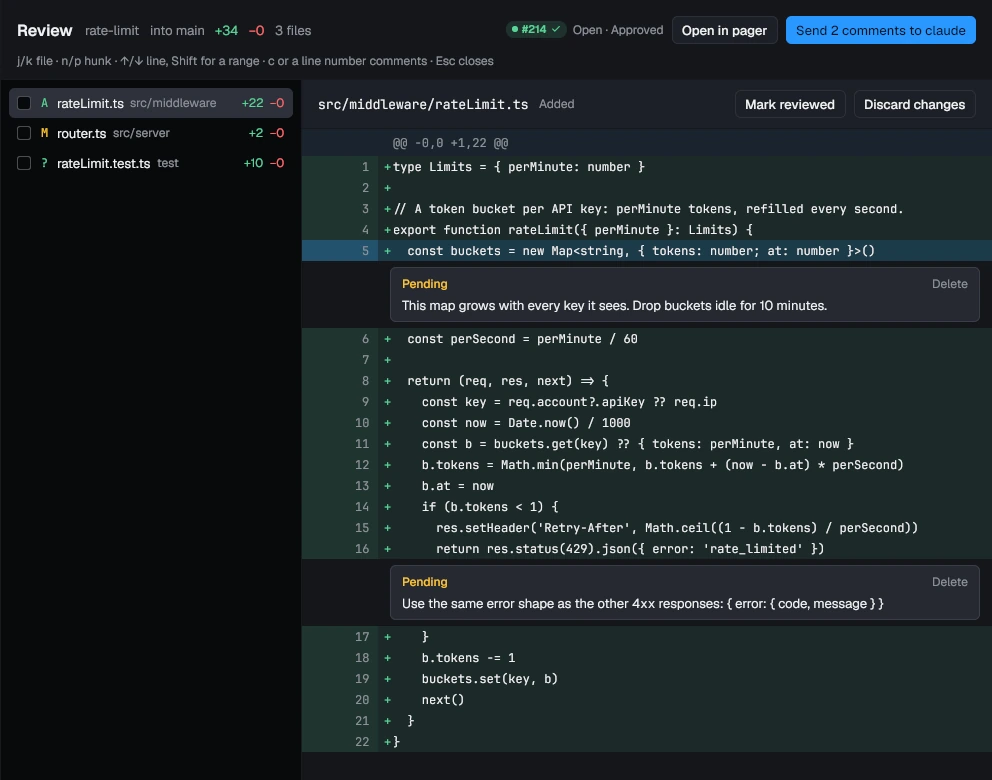
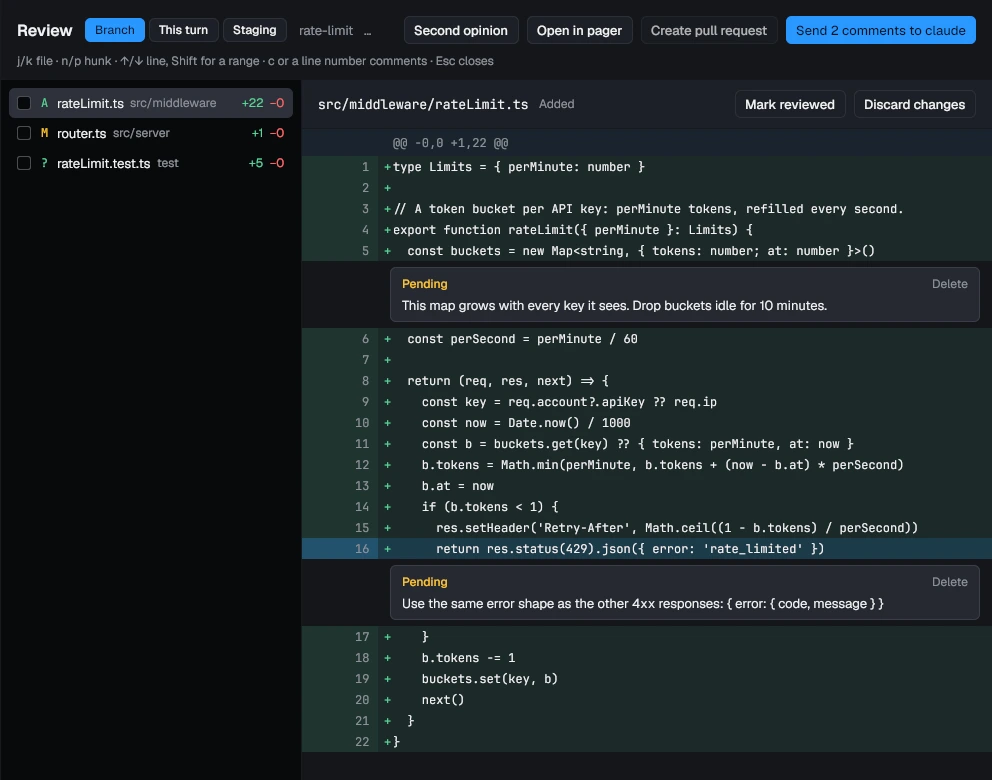
Correct page claims from review and retake the review image

diff --git a/docs/index.html b/docs/index.html
@@ -184,7 +184,7 @@ footer a { color: var(--muted); }
 
   <div class="hero">
     <h1>A desktop terminal for running several coding agents at once.</h1>
-    <p class="lede">Run five agents in five tabs and one of them is always stuck waiting on you, on a permission prompt or a question you have not seen. pitwall lights up that tab, notifies you, and takes you there with one key.</p>
+    <p class="lede">Run five agents in five tabs and sooner or later one stops to wait on you, on a permission prompt or a question you have not seen. pitwall lights up that tab, notifies you, and takes you there with one key.</p>
     <ul class="facts">
       <li><strong>Free and MIT licensed.</strong> No account.</li>
       <li><strong>Linux, macOS and Windows</strong>, x86_64 and arm64.</li>
@@ -193,7 +193,7 @@ footer a { color: var(--muted); }
     </ul>
     <div class="actions">
       <a class="button primary" href="#install">Install</a>
-      <a class="button" href="#try">Try it in five minutes</a>
+      <a class="button" href="#try">Try it</a>
       <a class="button" href="https://github.com/quanticstudios/pitwall">View on GitHub</a>
     </div>
   </div>
@@ -207,7 +207,7 @@ footer a { color: var(--muted); }
   <section id="install" class="install">
     <div class="wrap">
       <h2>Install</h2>
-      <p>pitwall runs every day on Linux; the macOS and Windows builds are newer and have had little use. When a release is out, an Update button installs it, and your tabs and config carry over.</p>
+      <p>pitwall runs every day on Linux; the macOS and Windows builds are newer and have had little use. When a release is out, an Update button installs it on a script install, and your tabs and config carry over; with Homebrew or Scoop, use <code>brew upgrade</code> or <code>scoop update pitwall</code>.</p>
       <div class="install-grid">
         <div>
           <p class="label">Homebrew, on macOS or Linux</p>
@@ -223,19 +223,19 @@ scoop install pitwall</code></pre>
           <pre><code>irm https://raw.githubusercontent.com/quanticstudios/pitwall/main/scripts/get.ps1 | iex</code></pre>
         </div>
       </div>
-      <p>Then run <code>pitwall</code>. The first window lists the agents on your <code>PATH</code> and sets up their status reporting with one button. <code>pitwall doctor</code> checks the install and prints the command that fixes each failure. <a href="https://github.com/quanticstudios/pitwall/blob/main/docs/install.md">The install page</a> covers platforms, pinning a version, updates and building from source.</p>
+      <p>Then run <code>pitwall</code>. <code>get.sh</code> installs it in <code>~/.local/bin</code>, so if your shell can't find it, add that folder to your <code>PATH</code> or run <code>~/.local/bin/pitwall</code>. The first window lists the agents on your <code>PATH</code> and sets up their status reporting with one button. <code>pitwall doctor</code> checks the install and says what to fix. <a href="https://github.com/quanticstudios/pitwall/blob/main/docs/install.md">The install page</a> covers platforms, pinning a version, updates and building from source.</p>
     </div>
   </section>
 
   <section id="try">
     <div class="wrap">
-      <h2>Try it in five minutes</h2>
+      <h2>Try it</h2>
       <p>Use a git repo you don't mind agents changing. On macOS the keys below are <kbd>Cmd+U</kbd>, <kbd>Cmd+Shift+Y</kbd>, <kbd>Cmd+Shift+N</kbd>, <kbd>Cmd+Shift+R</kbd> and <kbd>Cmd+T</kbd>.</p>
       <ol class="steps">
         <li><strong>Start two or three agents.</strong> Run <code>pitwall</code> in the repo and press Install hooks on the welcome card (or in Settings, Agents), so the agents report their state. <kbd>Ctrl+Shift+T</kbd> opens a tab; run <code>claude</code> in one, <code>codex</code> in another, and give each a task that runs a command. In Codex, run <code>/hooks</code> once to trust the new hooks.</li>
         <li><strong>Watch the sidebar.</strong> Each tab's row reads Working, Input, Approval, Plan, Done or Error, with the branch and the lines changed.</li>
         <li><strong>Press <kbd>Ctrl+Shift+U</kbd>.</strong> When an agent stops to ask, its row lights up and a desktop notification arrives. The key takes you to the agent that started waiting most recently; press it again for the next one.</li>
-        <li><strong>Answer from the row.</strong> A Claude Code or Codex permission prompt puts Allow and Deny on the row. Click them, or press <kbd>Ctrl+Shift+Y</kbd> or <kbd>Ctrl+Shift+D</kbd>. A single-choice Claude Code question puts its options there. To answer from a phone, turn it on in Settings, Phone, press Pair and scan the QR code; the phone has to reach your computer, for example over Tailscale (<a href="https://github.com/quanticstudios/pitwall/blob/main/docs/phone.md">the phone page</a>).</li>
+        <li><strong>Answer from the row.</strong> A Claude Code or Codex permission prompt puts Allow and Deny on the row. Click them, or press <kbd>Ctrl+Shift+Y</kbd> or <kbd>Ctrl+Shift+D</kbd>. A Claude Code question pitwall recognizes in full puts its options there; otherwise the row offers Open tab or Reply. To answer from a phone, turn it on in Settings, Phone and give it an address the phone can reach, as <a href="https://github.com/quanticstudios/pitwall/blob/main/docs/phone.md">the phone page</a> shows with Tailscale, since by default only your computer can reach it. Then press Pair and scan the QR code.</li>
         <li><strong>Ask for a fleet.</strong> Tell Claude Code or Codex "split this across three workers". Each worker gets its own worktree and tab, and a small row under the orchestrator's. Click the count on that row to fold them away.</li>
         <li><strong>Review and comment.</strong> <kbd>Ctrl+Shift+R</kbd> opens the tab's changes. Click a line number, type a comment and press Enter. The Send comments button types them all into the agent as one prompt.</li>
       </ol>
@@ -267,9 +267,9 @@ scoop install pitwall</code></pre>
       <div class="feature">
         <div class="text">
           <h3>Answer without switching windows</h3>
-          <p><strong>Answer a prompt from its row, without opening the tab.</strong> A Claude Code or Codex permission prompt shows Allow and Deny, plus Always when the prompt offers to stop asking. A single-choice Claude Code question shows its options as buttons. A Claude Code plan shows Approve plan, which never raises the permission mode, and a button to request changes. A question with no menu gets Reply, a small editor under the row. A multi-select or several questions at once show Open tab.</p>
-          <p>pitwall reads the screen again right before a press, and if the form changed, it presses nothing. <kbd>Ctrl+Shift+Y</kbd> and <kbd>Ctrl+Shift+D</kbd> press Allow and Deny, and on Linux the notification has them too.</p>
-          <p><strong>Or answer from your phone.</strong> Pair it by QR code and it lists what needs you, with Allow and Deny and a box for typed answers, and gets push notifications while locked. A menu on an agent's screen takes no typed reply, so answer that one in its tab or from the sidebar. There is no account and no relay: the phone talks to your computer over your own network. Push notifications go through the phone browser's push service, encrypted.</p>
+          <p><strong>Answer a prompt from its row, without opening the tab.</strong> A Claude Code or Codex permission prompt shows Allow and Deny, plus Always when the prompt has one clear option to stop asking. When pitwall recognizes a whole Claude Code form on screen, a single-choice question shows its options as buttons, and a plan that offers manual approval shows Approve plan, which never raises the permission mode. Otherwise the row offers Open tab, or Reply for a question with no menu.</p>
+          <p>An option, Always or Approve plan presses only if the screen still offers it. Allow and Deny check that the row is current and a permission prompt is on screen, not that the command is unchanged, so read it first. <kbd>Ctrl+Shift+Y</kbd> and <kbd>Ctrl+Shift+D</kbd> press them, and on Linux the notification has them too.</p>
+          <p><strong>Or answer from your phone.</strong> Pair it by QR code and it lists what needs you, with Allow and Deny and a box for typed answers. A menu on an agent's screen takes no typed reply, so answer that one in its tab or from the sidebar. There is no account and no relay: the phone talks to your computer over your own network. <a href="https://github.com/quanticstudios/pitwall/blob/main/docs/phone.md#notifications">Push notifications</a> need separate setup: a certificate the phone trusts, Turn on on the page, and on an iPhone the Home Screen. They go through the browser's push service, encrypted.</p>
         </div>
         <div class="media stack">
           <div class="shot tall"><img src="media/row-answers.webp" width="288" height="354" loading="lazy" alt="Sidebar rows answering in place: a Codex pane's approval with Always, Allow and Deny, and under an orchestrator's row four workers, one with Allow and Deny and one asking which database to use with Redis and SQLite buttons"></div>
@@ -320,7 +320,7 @@ pitwall wait --children \
           <p>The This turn scope shows what changed since the agent's latest turn started, and Undo turn puts those files back. The Staging scope stages single hunks with s and u, so you can commit part of an agent's work; on a <code>pitwall --host</code> tab, Stage hunks in terminal runs <code>git add -p</code> on the host. Second opinion starts the other agent read only in a split to review the changes, and sends its findings to the tab's agent.</p>
         </div>
         <div class="media">
-          <div class="shot"><img src="media/review.webp" width="992" height="780" loading="lazy" alt="The review view: three changed files on the left, the diff of rateLimit.ts on the right with two pending comments, and a Send 2 comments to claude button"></div>
+          <div class="shot"><img src="media/review.webp" width="992" height="780" loading="lazy" alt="The review view: Branch, This turn and Staging scopes, three changed files on the left, the diff of rateLimit.ts on the right with two pending comments, and Second opinion and Send 2 comments to claude buttons"></div>
         </div>
       </div>
 
@@ -328,7 +328,7 @@ pitwall wait --children \
         <div class="text">
           <h3>Run agents side by side without collisions</h3>
           <p><strong>Give each agent its own git worktree, and pitwall warns you when their changes collide.</strong> Start one from any branch or a pull request number.</p>
-          <p>Each gets its own ports (3010-3019, then 3020-3029), so two dev servers stop fighting over 3000, and can copy <code>.env</code> and run your setup command. Once one of two branches has an open pull request, a row gets an amber triangle when they touch the same files and a red one when merging would conflict. The hover card lists every overlap and says which to merge first.</p>
+          <p>Each gets its own port block (3010-3019, then 3020-3029) in <code>PORT</code> and two more variables, and a dev server that uses them stops fighting over 3000. Vite and Astro need <a href="https://github.com/quanticstudios/pitwall/blob/main/docs/usage.md#worktree-ports-and-setup">a config line or a flag</a>. A worktree can also copy <code>.env</code> and run your setup command. Once one of two branches has an open pull request, a row gets an amber triangle when they touch the same files and a red one when merging would conflict. The hover card lists every overlap and says which to merge first.</p>
           <p><strong>Fork a conversation to try a second approach.</strong> Fork in a tab's menu, or <code>pitwall fork --worktree side</code>, continues a Claude Code or Codex conversation in a new tab while the source keeps running. With <code>--worktree</code> the fork gets a new branch from the source's HEAD, with its own ports and setup. Uncommitted changes stay in the source checkout.</p>
           <p><strong>Clean up what a worktree started.</strong> Set <code>teardown</code>, such as <code>docker compose down</code>, under <code>[worktrees]</code>, and it runs with the worktree's ports before pitwall removes the folder. A failure keeps the worktree and says why. A command from a repo's <code>.pitwall/worktree.toml</code> needs your yes each time, since anyone can put code in a repo you clone. Without a yes, pitwall skips it, shows what it would have run and removes the worktree.</p>
         </div>
@@ -388,7 +388,7 @@ pitwall wait --children \
           <p><strong>An agent can open a tab with <code>pitwall new</code>, start Codex or Claude Code in it on a prompt, and wait for the result with <code>pitwall wait</code>.</strong> The tab shows up in your sidebar, so you can watch the work and type into it.</p>
           <p>Agents can also talk to each other. <code>pitwall send</code> types a message into another agent at its next prompt, with a header saying who sent it and how to reply, so Claude Code and Codex can argue over a plan until they agree.</p>
           <p><strong>Nothing pitwall types lands in your draft.</strong> <code>pitwall send</code>, review comments, sent CI failures and Reply wait while Claude Code's or Codex's input box holds your text or you typed in the pane in the last 3 seconds. The row reads "Waits: your draft". Send or clear the draft and they go in by themselves.</p>
-          <p>When the new agent asks permission, <code>wait</code> stops and reports the question, and you answer it in the tab or from its row. pitwall never answers for an agent. Hand <a href="https://github.com/quanticstudios/pitwall/blob/main/docs/agent-skill.md">the agent skill page</a> to your agent and it knows the commands.</p>
+          <p>When the new agent asks permission, <code>wait</code> stops and reports the question, and you answer it in the tab or from its row. pitwall never approves a terminal agent's permission prompt by itself. Hand <a href="https://github.com/quanticstudios/pitwall/blob/main/docs/agent-skill.md">the agent skill page</a> to your agent and it knows the commands.</p>
         </div>
         <div class="media stack">
           <div class="shot"><img src="media/agents-talk.webp" width="1280" height="800" loading="lazy" alt="Claude Code and Codex in split panes of one pinned tab. Claude Code wrote plan.md and asked Codex to critique it with pitwall send; Codex's reply arrives under a pitwall header naming the sender and how to reply, raising three points. Claude Code accepts two, revises the plan, and Codex answers AGREE."></div>
@@ -412,7 +412,7 @@ pitwall send "$pane" -- "Critique plan.md"</code></pre>
           <h3>Never lose a session</h3>
           <p><strong>Close the window, reboot or upgrade, and your tabs come back in their folders with the agents resumed where they left off.</strong></p>
           <p>Sessions work like tmux, and the switcher (<kbd>Ctrl+Shift+S</kbd>) shows every session's agents before you switch. <code>pitwall --host box</code> runs them on another machine over ssh, so they keep going when the laptop closes. With <code>window = true</code> under <code>[[hosts]]</code>, one window shows this machine's sessions and that host's under their own headings, with a Waiting on you list of the agents blocked on any of them.</p>
-          <p>Panes keep their most recent 2000 rows across restarts, except in guarded tabs. <strong>Keep awake,</strong> off by default, in Settings, Agents, stops Linux sleep and macOS idle sleep while any agent is Working and for a grace period after, 15 minutes unless you change it. A closed lid may still suspend the machine, and on Windows it does nothing.</p>
+          <p>Panes keep their most recent 2000 rows across restarts, except in guarded tabs. <strong>Keep awake,</strong> off by default, in Settings, Agents, holds a logind sleep block on Linux and prevents idle sleep on macOS while any agent is Working and for a grace period after, 15 minutes unless you change it. The screen can still sleep, a closed lid or a suspend that ignores the block can still suspend Linux, and a Mac still sleeps when you tell it to. Windows does nothing.</p>
         </div>
         <div class="media">
           <div class="shot"><img src="media/sessions.webp" width="738" height="560" loading="lazy" alt="The session switcher: sessions acme, billing and docs with their working and needs-you counts, and the billing session's tabs on the right"></div>

diff --git a/README.md b/README.md
@@ -4,9 +4,9 @@
 pitwall is a desktop terminal for running several coding agents at once,
 with a sidebar that shows what each one is doing right now.
 
-Run five agents in five tabs and one of them is always stuck waiting on
-you, on a permission prompt or a question you have not seen. pitwall lights
-up that tab, notifies you, and takes you there with one key.
+Run five agents in five tabs and sooner or later one stops to wait on you, on
+a permission prompt or a question you have not seen. pitwall lights up that
+tab, notifies you, and takes you there with one key.
 
 - Free and open source, under the MIT license. No account.
 - A desktop app for Linux, macOS and Windows, on x86_64 and arm64.
@@ -29,15 +29,17 @@ scoop install pitwall                     # Windows, with Scoop
 irm https://raw.githubusercontent.com/quanticstudios/pitwall/main/scripts/get.ps1 | iex   # or the script
 ```
 
-Then run `pitwall`. The first window lists the agents on your `PATH` and
-sets up their status reporting with one button. `pitwall doctor` checks the
-install and prints the command that fixes each failure. pitwall runs every
-day on Linux; the macOS and Windows builds are newer and have had little use.
-When a release is out, an Update button installs it, and your tabs and config
-carry over. [docs/install.md](docs/install.md) covers platforms, pinning a
-version, updates and building from source.
+Then run `pitwall`. `get.sh` installs it in `~/.local/bin`, so if your shell
+can't find it, add that folder to your `PATH` or run `~/.local/bin/pitwall`. The
+first window lists the agents on your `PATH` and sets up their status reporting
+with one button. `pitwall doctor` checks the install and says what to fix.
+pitwall runs every day on Linux; the macOS and Windows builds are newer and have
+had little use. When a release is out, an Update button installs it on a script
+install, and your tabs and config carry over; with Homebrew or Scoop, use
+`brew upgrade` or `scoop update pitwall`. [docs/install.md](docs/install.md)
+covers platforms, pinning a version, updates and building from source.
 
-## Try it in five minutes
+## Try it
 
 Use a git repo you don't mind agents changing. On macOS the keys below
 are Cmd+U, Cmd+Shift+Y, Cmd+Shift+N, Cmd+Shift+R and Cmd+T.
@@ -55,11 +57,11 @@ are Cmd+U, Cmd+Shift+Y, Cmd+Shift+N, Cmd+Shift+R and Cmd+T.
    started waiting most recently; press it again for the next one.
 4. **Answer from the row.** A Claude Code or Codex permission prompt puts
    Allow and Deny on the row. Click them, or press Ctrl+Shift+Y or
-   Ctrl+Shift+D. A single-choice Claude Code question puts its options there.
-   To answer from a phone, turn it on in Settings, Phone, press Pair and
-   scan the QR code; the phone has to reach your computer, for example over
-   Tailscale
-   ([docs/phone.md](docs/phone.md)).
+   Ctrl+Shift+D. A Claude Code question pitwall recognizes in full puts its
+   options there; otherwise the row offers Open tab or Reply. To answer from a
+   phone, turn it on in Settings, Phone and give it an address the phone can
+   reach, as [docs/phone.md](docs/phone.md) shows with Tailscale, since by
+   default only your computer can reach it. Then press Pair and scan the QR code.
 5. **Ask for a fleet.** Tell Claude Code or Codex "split this across three
    workers". Each worker gets its own worktree and tab, and a small row under
    the orchestrator's. Click the count on that row to fold them away.
@@ -104,25 +106,28 @@ its agent resumed.
 <img src="docs/media/row-answers.webp" alt="Sidebar rows answering in place: a Codex pane's approval with Always, Allow and Deny, and under an orchestrator's row four workers, one with Allow and Deny and one asking which database to use with Redis and SQLite buttons" width="288" align="right">
 
 **Answer a prompt from its row, without opening the tab.** A Claude Code or
-Codex permission prompt shows Allow and Deny, plus Always when the prompt
-offers to stop asking. A single-choice Claude Code question shows its options
-as buttons. A Claude Code plan shows Approve plan, which never raises the
-permission mode, and a button to request changes. A question with no menu gets
-Reply, a small editor under the row. A multi-select or several questions at
-once show Open tab. pitwall reads the screen again right before a press, and
-if the form changed, it presses nothing. Ctrl+Shift+Y and Ctrl+Shift+D press
-Allow and Deny, and on Linux the notification has them too.
+Codex permission prompt shows Allow and Deny, plus Always when the prompt has
+one clear option to stop asking. When pitwall recognizes a whole Claude Code
+form on screen, a single-choice question shows its options as buttons, and a
+plan that offers manual approval shows Approve plan, which never raises the
+permission mode. Otherwise the row offers Open tab, or Reply for a question with
+no menu. An option, Always or Approve plan presses only if the screen still
+offers it. Allow and Deny check that the row is current and a permission prompt
+is on screen, not that the command is unchanged, so read it first.
+Ctrl+Shift+Y and Ctrl+Shift+D press them, and on Linux the notification has
+them too.
 
 <br clear="right">
 
 <img src="docs/media/phone.webp" alt="The phone page: approvals for three tabs with Allow and Deny buttons, and a Codex question with an answer box" width="240" align="right">
 
 **Or answer from your phone.** Pair it by QR code and it lists what needs you,
-with Allow and Deny and a box for typed answers, and gets push notifications
-while locked. A menu on an agent's screen takes no typed reply, so answer that
-one in its tab or from the sidebar. There is no account and no relay: the
-phone talks to your computer over your own network. Push notifications go
-through the phone browser's push service, encrypted.
+with Allow and Deny and a box for typed answers. A menu on an agent's screen
+takes no typed reply, so answer that one in its tab or from the sidebar. There
+is no account and no relay: the phone talks to your computer over your own
+network. [Push notifications](docs/phone.md#notifications) need separate setup:
+a certificate the phone trusts, Turn on on the page, and on an iPhone the Home
+Screen. They go through the browser's push service, encrypted.
 
 <br clear="right">
 
@@ -204,14 +209,16 @@ Stage hunks in terminal runs `git add -p` on the host. Second opinion starts
 the other agent read only in a split to review the changes, and sends its
 findings to the tab's agent.
 
-<img src="docs/media/review.webp" alt="The review view: three changed files on the left, the diff of rateLimit.ts on the right with two pending comments, and a Send 2 comments to claude button" width="800">
+<img src="docs/media/review.webp" alt="The review view: Branch, This turn and Staging scopes, three changed files on the left, the diff of rateLimit.ts on the right with two pending comments, and Second opinion and Send 2 comments to claude buttons" width="800">
 
 ### Run agents side by side without collisions
 
 **Give each agent its own git worktree, and pitwall warns you when their
 changes collide.** Start one from any branch or a pull request number. Each
-gets its own ports (3010-3019, then 3020-3029), so two dev servers stop
-fighting over 3000, and can copy `.env` and run your setup command. Once one of
+gets its own port block (3010-3019, then 3020-3029) in `PORT` and two more
+variables, and a dev server that uses them stops fighting over 3000. Vite and
+Astro need [a config line or a flag](docs/usage.md#worktree-ports-and-setup). A
+worktree can also copy `.env` and run your setup command. Once one of
 two branches has an open pull request, a row gets an amber triangle when they
 touch the same files and a red one when merging would conflict. The hover card
 lists every overlap and says which to merge first.
@@ -301,7 +308,8 @@ once, and the queue starts the next task as one finishes.
 in it on a prompt, and wait for the result with `pitwall wait`.** The tab
 shows up in your sidebar, so you can watch the work and type into it. When
 the new agent asks permission, `wait` stops and reports the question, and
-you answer it in the tab or from its row. pitwall never answers for an agent.
+you answer it in the tab or from its row. pitwall never approves a terminal
+agent's permission prompt by itself.
 Hand
 [the agent skill page](docs/agent-skill.md) to your agent and it knows the
 commands.
@@ -337,10 +345,11 @@ when the laptop closes. With `window = true` under `[[hosts]]`, one window shows
 this machine's sessions and that host's under their own headings, with a Waiting
 on you list of the agents blocked on any of them.
 
-**Keep awake,** off by default, in Settings, Agents, stops Linux sleep and macOS
-idle sleep while any agent is Working and for a grace period after, 15 minutes
-unless you change it. A closed lid may still suspend the machine, and on Windows
-it does nothing.
+**Keep awake,** off by default, in Settings, Agents, holds a logind sleep block
+on Linux and prevents idle sleep on macOS while any agent is Working and for a
+grace period after, 15 minutes unless you change it. The screen can still sleep,
+a closed lid or a suspend that ignores the block can still suspend Linux, and a
+Mac still sleeps when you tell it to. Windows does nothing.
 
 <img src="docs/media/sessions.webp" alt="The session switcher: sessions acme, billing and docs with their working and needs-you counts, and the billing session's tabs on the right" width="640">
 

diff --git a/docs/usage.md b/docs/usage.md
@@ -525,7 +525,7 @@ is 432dp wide (scaled with the display), narrows to 320dp in a small window,
 then hides. Each window keeps its own open state until it closes. Ctrl+L still
 reaches the shell, to clear the screen.
 
-<img src="media/review.webp" alt="The review view: three changed files on the left, the diff of rateLimit.ts on the right with two pending comments, and a Send 2 comments to claude button" width="800">
+<img src="media/review.webp" alt="The review view: Branch, This turn and Staging scopes, three changed files on the left, the diff of rateLimit.ts on the right with two pending comments, and Second opinion and Send 2 comments to claude buttons" width="800">
 
 To review an agent's work, press Ctrl+Shift+R (Cmd+Shift+R in mac), pick
 View diff from the tab's "…" menu or the command palette, or click a file
